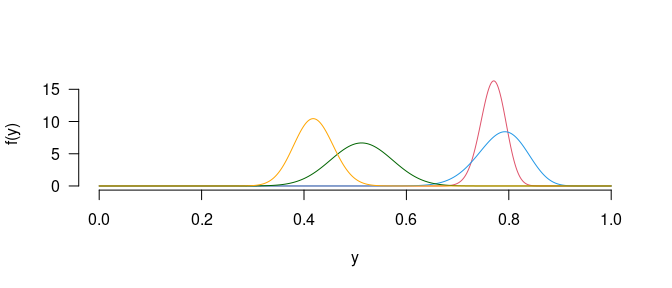
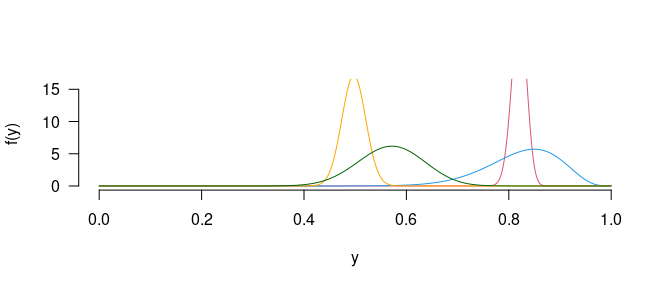
Update

diff --git a/README.md b/README.md
@@ -65,98 +65,98 @@ Components.</caption>
 <tr class="odd">
 <td style="text-align: left;">mean</td>
 <td style="text-align: left;">(Intercept)</td>
-<td style="text-align: left;">0.3923</td>
-<td style="text-align: left;">0.0765</td>
-<td style="text-align: left;">5.1260</td>
+<td style="text-align: left;">0.3098</td>
+<td style="text-align: left;">0.0572</td>
+<td style="text-align: left;">5.4154</td>
 <td style="text-align: left;">0.0000</td>
 </tr>
 <tr class="even">
 <td style="text-align: left;">mean</td>
 <td style="text-align: left;">complex</td>
-<td style="text-align: left;">-0.4484</td>
-<td style="text-align: left;">0.0956</td>
-<td style="text-align: left;">-4.6888</td>
+<td style="text-align: left;">-0.3590</td>
+<td style="text-align: left;">0.0478</td>
+<td style="text-align: left;">-7.5096</td>
 <td style="text-align: left;">0.0000</td>
 </tr>
 <tr class="odd">
 <td style="text-align: left;">mean</td>
 <td style="text-align: left;">S1</td>
-<td style="text-align: left;">0.0684</td>
-<td style="text-align: left;">0.0129</td>
-<td style="text-align: left;">5.3168</td>
+<td style="text-align: left;">0.0842</td>
+<td style="text-align: left;">0.0096</td>
+<td style="text-align: left;">8.7786</td>
 <td style="text-align: left;">0.0000</td>
 </tr>
 <tr class="even">
 <td style="text-align: left;">mean</td>
 <td style="text-align: left;">S2</td>
-<td style="text-align: left;">0.1010</td>
-<td style="text-align: left;">0.0313</td>
-<td style="text-align: left;">3.2307</td>
-<td style="text-align: left;">0.0012</td>
+<td style="text-align: left;">0.0686</td>
+<td style="text-align: left;">0.0279</td>
+<td style="text-align: left;">2.4609</td>
+<td style="text-align: left;">0.0139</td>
 </tr>
 <tr class="odd">
 <td style="text-align: left;">mean</td>
 <td style="text-align: left;">S3</td>
-<td style="text-align: left;">0.0420</td>
-<td style="text-align: left;">0.0184</td>
-<td style="text-align: left;">2.2832</td>
-<td style="text-align: left;">0.0224</td>
+<td style="text-align: left;">0.0280</td>
+<td style="text-align: left;">0.0089</td>
+<td style="text-align: left;">3.1419</td>
+<td style="text-align: left;">0.0017</td>
 </tr>
 <tr class="even">
 <td style="text-align: left;">mean</td>
 <td style="text-align: left;">S4</td>
-<td style="text-align: left;">0.1519</td>
-<td style="text-align: left;">0.0322</td>
-<td style="text-align: left;">4.7205</td>
-<td style="text-align: left;">0.0000</td>
+<td style="text-align: left;">0.0663</td>
+<td style="text-align: left;">0.0265</td>
+<td style="text-align: left;">2.4977</td>
+<td style="text-align: left;">0.0125</td>
 </tr>
 <tr class="odd">
 <td style="text-align: left;">precision</td>
 <td style="text-align: left;">(Intercept)</td>
-<td style="text-align: left;">2.4455</td>
-<td style="text-align: left;">0.2597</td>
-<td style="text-align: left;">9.4177</td>
+<td style="text-align: left;">3.0447</td>
+<td style="text-align: left;">0.2611</td>
+<td style="text-align: left;">11.6628</td>
 <td style="text-align: left;">0.0000</td>
 </tr>
 <tr class="even">
 <td style="text-align: left;">precision</td>
 <td style="text-align: left;">complex</td>
-<td style="text-align: left;">-0.1698</td>
-<td style="text-align: left;">0.4061</td>
-<td style="text-align: left;">-0.4180</td>
-<td style="text-align: left;">0.6759</td>
+<td style="text-align: left;">0.1335</td>
+<td style="text-align: left;">0.4132</td>
+<td style="text-align: left;">0.3231</td>
+<td style="text-align: left;">0.7466</td>
 </tr>
 <tr class="odd">
 <td style="text-align: left;">precision</td>
 <td style="text-align: left;">S1</td>
-<td style="text-align: left;">0.4505</td>
-<td style="text-align: left;">0.1032</td>
-<td style="text-align: left;">4.3667</td>
+<td style="text-align: left;">0.5955</td>
+<td style="text-align: left;">0.1029</td>
+<td style="text-align: left;">5.7869</td>
 <td style="text-align: left;">0.0000</td>
 </tr>
 <tr class="even">
 <td style="text-align: left;">precision</td>
 <td style="text-align: left;">S2</td>
-<td style="text-align: left;">-0.2841</td>
-<td style="text-align: left;">0.1246</td>
-<td style="text-align: left;">-2.2805</td>
-<td style="text-align: left;">0.0226</td>
+<td style="text-align: left;">-0.7990</td>
+<td style="text-align: left;">0.1222</td>
+<td style="text-align: left;">-6.5389</td>
+<td style="text-align: left;">0.0000</td>
 </tr>
 <tr class="odd">
 <td style="text-align: left;">precision</td>
 <td style="text-align: left;">S3</td>
-<td style="text-align: left;">0.4485</td>
-<td style="text-align: left;">0.1531</td>
-<td style="text-align: left;">2.9288</td>
-<td style="text-align: left;">0.0034</td>
+<td style="text-align: left;">0.9208</td>
+<td style="text-align: left;">0.1541</td>
+<td style="text-align: left;">5.9742</td>
+<td style="text-align: left;">0.0000</td>
 </tr>
 <tr class="even">
 <td style="text-align: left;">precision</td>
 <td style="text-align: left;">S4</td>
-<td style="text-align: left;">0.0972</td>
-<td style="text-align: left;">0.1856</td>
-<td style="text-align: left;">0.5238</td>
-<td style="text-align: left;">0.6004</td>
+<td style="text-align: left;">0.4426</td>
+<td style="text-align: left;">0.1865</td>
+<td style="text-align: left;">2.3733</td>
+<td style="text-align: left;">0.0176</td>
 </tr>
 </tbody>
 </table>
@@ -192,21 +192,21 @@ resulting beta distributions.</caption>
 <tbody>
 <tr class="odd">
 <td style="text-align: left;">means</td>
-<td style="text-align: left;">0.3539</td>
-<td style="text-align: left;">0.4987</td>
-<td style="text-align: left;">0.5714</td>
-<td style="text-align: left;">0.5769</td>
-<td style="text-align: left;">0.6482</td>
-<td style="text-align: left;">0.8149</td>
+<td style="text-align: left;">0.4025</td>
+<td style="text-align: left;">0.4864</td>
+<td style="text-align: left;">0.5578</td>
+<td style="text-align: left;">0.5608</td>
+<td style="text-align: left;">0.5907</td>
+<td style="text-align: left;">0.8238</td>
 </tr>
 <tr class="even">
 <td style="text-align: left;">sds</td>
-<td style="text-align: left;">0.0105</td>
-<td style="text-align: left;">0.1324</td>
-<td style="text-align: left;">0.1695</td>
-<td style="text-align: left;">0.1530</td>
-<td style="text-align: left;">0.1912</td>
-<td style="text-align: left;">0.2101</td>
+<td style="text-align: left;">0.0006</td>
+<td style="text-align: left;">0.0871</td>
+<td style="text-align: left;">0.1502</td>
+<td style="text-align: left;">0.1308</td>
+<td style="text-align: left;">0.1785</td>
+<td style="text-align: left;">0.2010</td>
 </tr>
 </tbody>
 </table>
@@ -243,24 +243,24 @@ class="math inline"><em>μ̂</em></span></th>
 <tbody>
 <tr class="odd">
 <td style="text-align: left;">small</td>
-<td style="text-align: left;">-0.4772</td>
-<td style="text-align: left;">-0.5781</td>
-<td style="text-align: left;">-0.0749</td>
-<td style="text-align: left;">-0.3636</td>
+<td style="text-align: left;">-0.5328</td>
+<td style="text-align: left;">-0.4102</td>
+<td style="text-align: left;">-0.1041</td>
+<td style="text-align: left;">-0.1513</td>
 </tr>
 <tr class="even">
 <td style="text-align: left;">medium</td>
-<td style="text-align: left;">-0.7630</td>
-<td style="text-align: left;">0.2854</td>
-<td style="text-align: left;">-0.2250</td>
-<td style="text-align: left;">0.7279</td>
+<td style="text-align: left;">-0.4175</td>
+<td style="text-align: left;">1.6173</td>
+<td style="text-align: left;">0.1504</td>
+<td style="text-align: left;">0.6603</td>
 </tr>
 <tr class="odd">
 <td style="text-align: left;">large</td>
-<td style="text-align: left;">1.6194</td>
-<td style="text-align: left;">1.7084</td>
-<td style="text-align: left;">0.0037</td>
-<td style="text-align: left;">0.0816</td>
+<td style="text-align: left;">1.9840</td>
+<td style="text-align: left;">1.1282</td>
+<td style="text-align: left;">1.3529</td>
+<td style="text-align: left;">2.0273</td>
 </tr>
 </tbody>
 </table>
@@ -289,24 +289,24 @@ class="math inline"><em>ϕ̂</em></span></th>
 <tbody>
 <tr class="odd">
 <td style="text-align: left;">small</td>
-<td style="text-align: left;">-0.6532</td>
-<td style="text-align: left;">0.4038</td>
-<td style="text-align: left;">-0.3813</td>
-<td style="text-align: left;">0.1163</td>
+<td style="text-align: left;">-0.6290</td>
+<td style="text-align: left;">0.6173</td>
+<td style="text-align: left;">-0.3723</td>
+<td style="text-align: left;">0.0168</td>
 </tr>
 <tr class="even">
 <td style="text-align: left;">medium</td>
-<td style="text-align: left;">0.9395</td>
-<td style="text-align: left;">-0.7317</td>
-<td style="text-align: left;">0.4427</td>
-<td style="text-align: left;">-0.4473</td>
+<td style="text-align: left;">-0.1112</td>
+<td style="text-align: left;">-0.1790</td>
+<td style="text-align: left;">0.0621</td>
+<td style="text-align: left;">-0.1930</td>
 </tr>
 <tr class="odd">
 <td style="text-align: left;">large</td>
-<td style="text-align: left;">4.0539</td>
-<td style="text-align: left;">-2.0026</td>
-<td style="text-align: left;">2.7190</td>
-<td style="text-align: left;">0.2114</td>
+<td style="text-align: left;">3.2936</td>
+<td style="text-align: left;">-2.1955</td>
+<td style="text-align: left;">1.4890</td>
+<td style="text-align: left;">0.6173</td>
 </tr>
 </tbody>
 </table>
